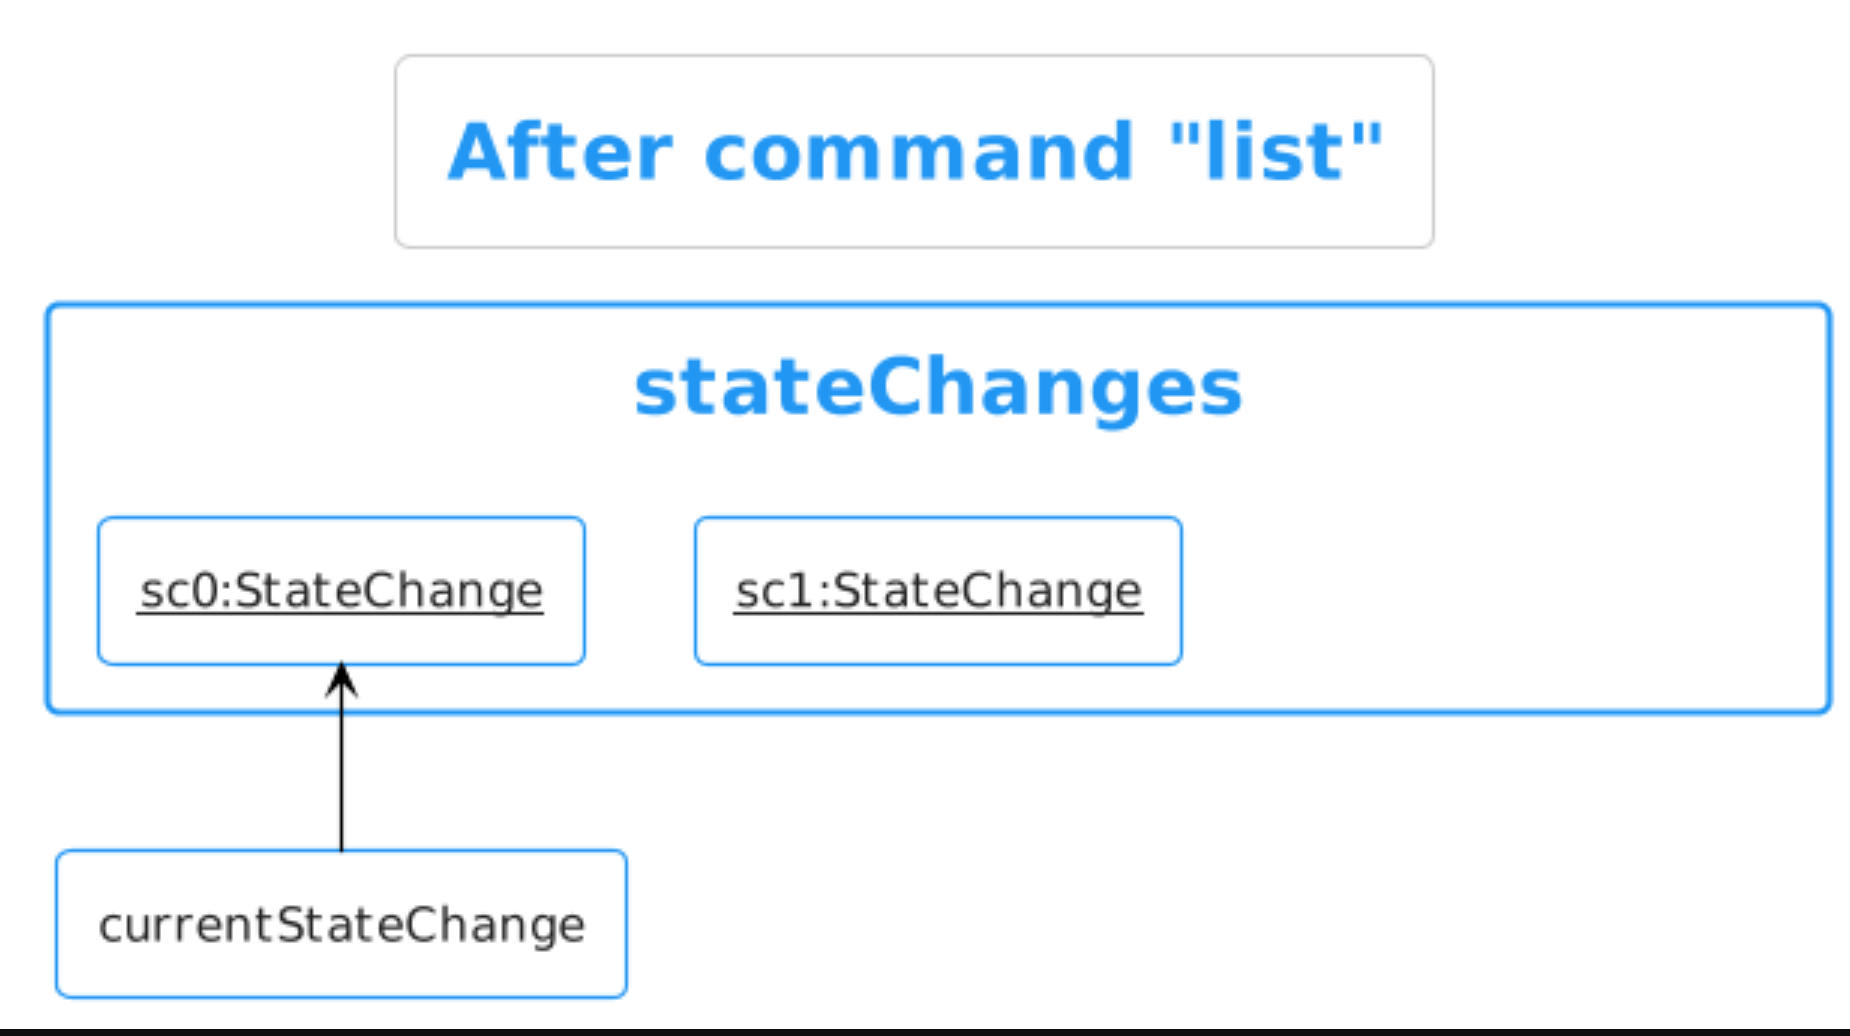
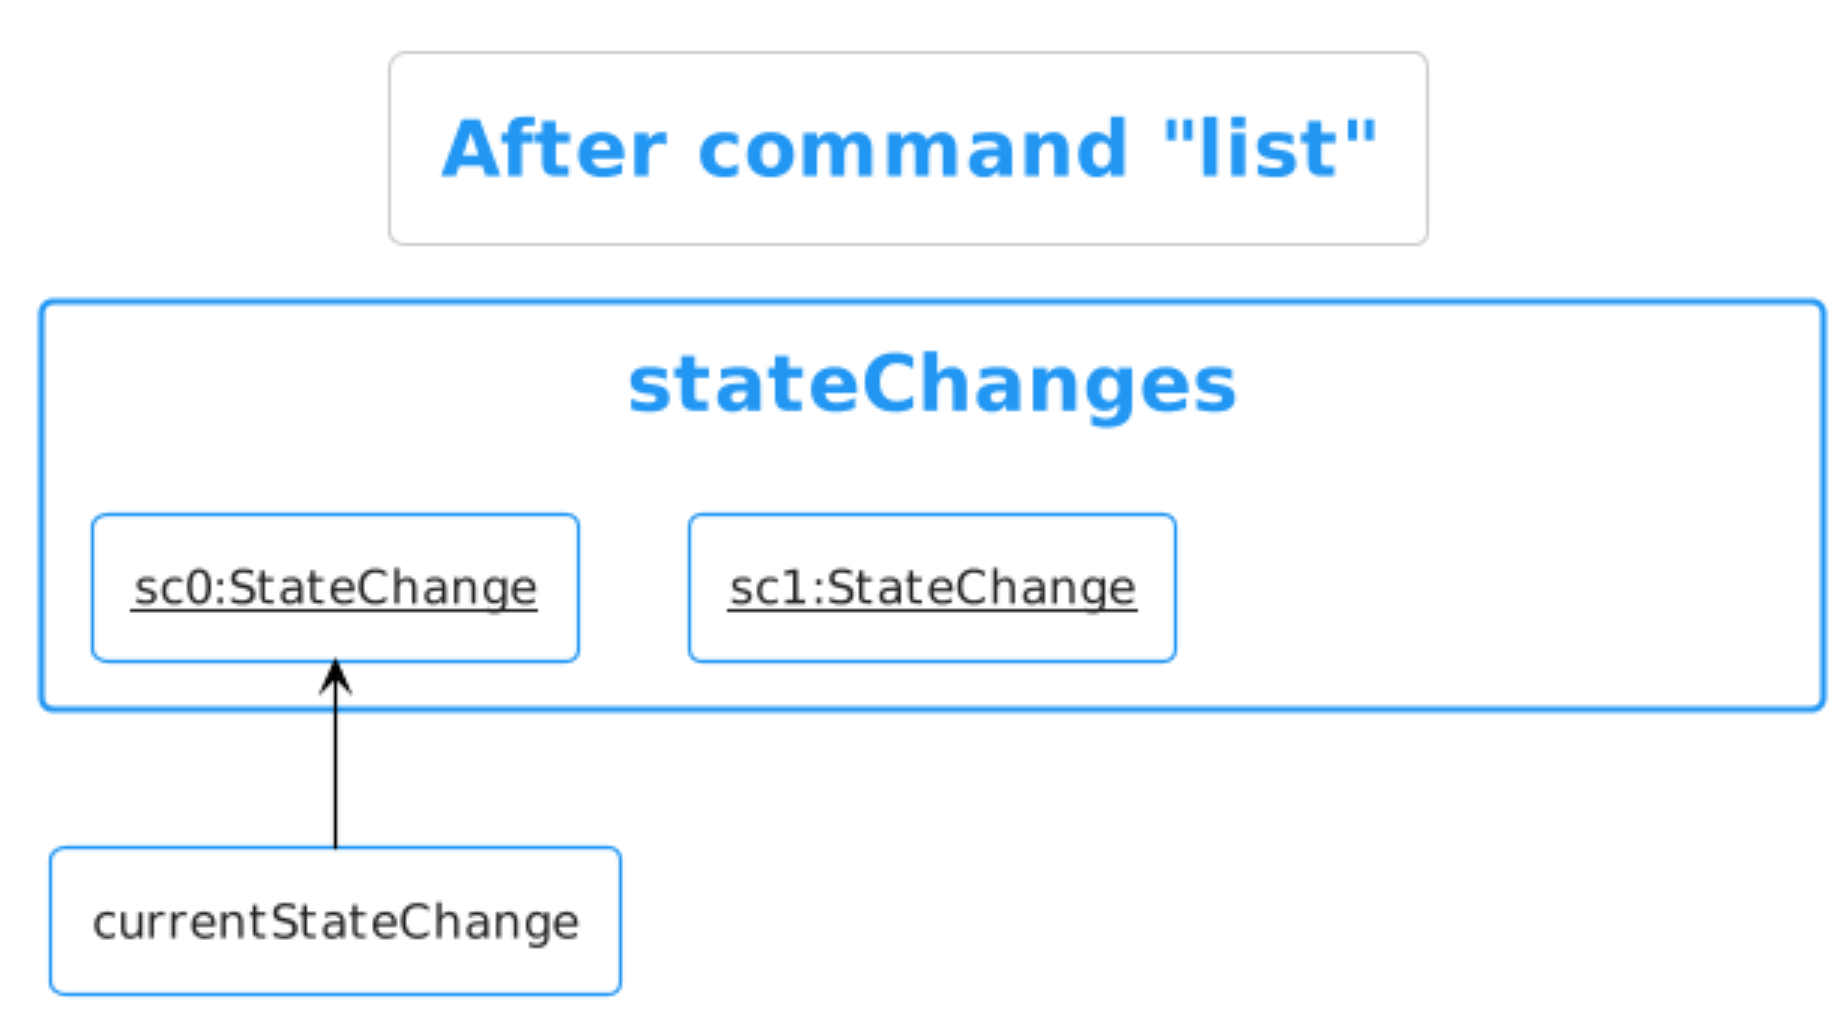
Update activity diagram in implementation section

diff --git a/docs/DeveloperGuide.md b/docs/DeveloperGuide.md
@@ -244,7 +244,7 @@ Step 6. The user executes `clear`, which again will call `Model#saveIBookChanges
 
 The following activity diagram summarizes what happens when a user executes a new command:
 
-<img src="images/CommitActivityDiagram.png" width="250" />
+<img src="images/SaveChangesActivityDiagram.png" width="300" />
 
 #### Design considerations:
 
